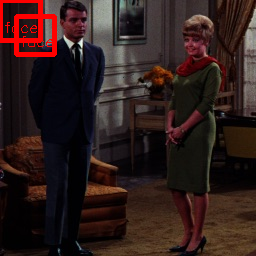
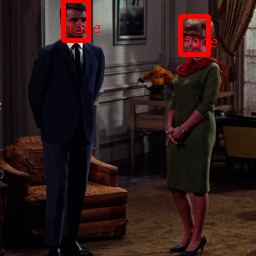
Update yolov3 tiny images

Changed region(s): [[0.0, 0.0, 0.4062, 0.25], [0.6875, 0.0312, 0.8438, 0.25]]

diff --git a/yolov3-tiny/yolov3-tiny.py b/yolov3-tiny/yolov3-tiny.py
@@ -10,7 +10,7 @@ import urllib.request
 
 model_path = "yolov3-tiny.opt.onnx.prototxt"
 weight_path = "yolov3-tiny.opt.onnx"
-img_path = "couple.jpg"
+img_path = "sheep.jpg"
 
 print("downloading ...");
 
@@ -25,6 +25,7 @@ print("loading ...");
 env_id = ailia.get_gpu_environment_id()
 categories = 80
 detector = ailia.Detector(model_path, weight_path, categories, format=ailia.NETWORK_IMAGE_FORMAT_RGB, channel=ailia.NETWORK_IMAGE_CHANNEL_FIRST, range=ailia.NETWORK_IMAGE_RANGE_U_FP32, algorithm=ailia.DETECTOR_ALGORITHM_YOLOV3, env_id=env_id)
+detector.set_input_shape(128,128)
 
 # load input image and convert to BGRA
 img = cv2.imread( img_path, cv2.IMREAD_UNCHANGED )
@@ -67,9 +68,6 @@ coco_category=[
 count = detector.get_object_count()
 
 print("object_count=" + str(count))
-
-detector.set_input_shape(416,416)
-
 
 for idx  in range(count) :
     # print result

diff --git a/README.md b/README.md
@@ -30,8 +30,8 @@ The collection of pre-trained, state-of-the-art models.
 |:-----------|------------:|:------------:|:------------:|
 | [yolov1-tiny](/yolov1-tiny/) | [YOLO: Real-Time Object Detection](https://pjreddie.com/darknet/yolov1/) | Darknet | 1.1.0  |
 | [yolov1-face](/yolov1-face/) | [YOLO-Face-detection](https://github.com/dannyblueliu/YOLO-Face-detection/) | Darknet | 1.1.0  |
-| [yolov3-tiny](/yolov3-tiny/) | [YOLO: Real-Time Object Detection](https://pjreddie.com/darknet/yolo/) | Keras | 1.2.1b  |
-| [yolov3-face](/yolov3-face/) | YOLOv3-Face-detection | Keras | 1.2.1b  |
+| [yolov3-tiny](/yolov3-tiny/) | [YOLO: Real-Time Object Detection](https://pjreddie.com/darknet/yolo/) | Keras | 1.2.1 beta  |
+| [yolov3-face](/yolov3-face/) | [Face detection using keras-yolov3](https://github.com/axinc-ai/yolov3-face) | Keras | 1.2.1 beta  |
 
 ## Human recognization
 

diff --git a/yolov3-face/README.md b/yolov3-face/README.md
@@ -17,7 +17,7 @@ Range : [0.0, 1.0]
 
 ## Reference
 
-- TBD
+- [Face detection using keras-yolov3](https://github.com/axinc-ai/yolov3-face)
 
 ## Framework
 

diff --git a/yolov3-tiny/README.md b/yolov3-tiny/README.md
@@ -2,7 +2,7 @@
 
 ## Input
 
-![Input](couple.jpg)
+![Input](sheep.jpg)
 
 Shape : (1, 3, 448, 448)
 Range : [0.0, 1.0]
